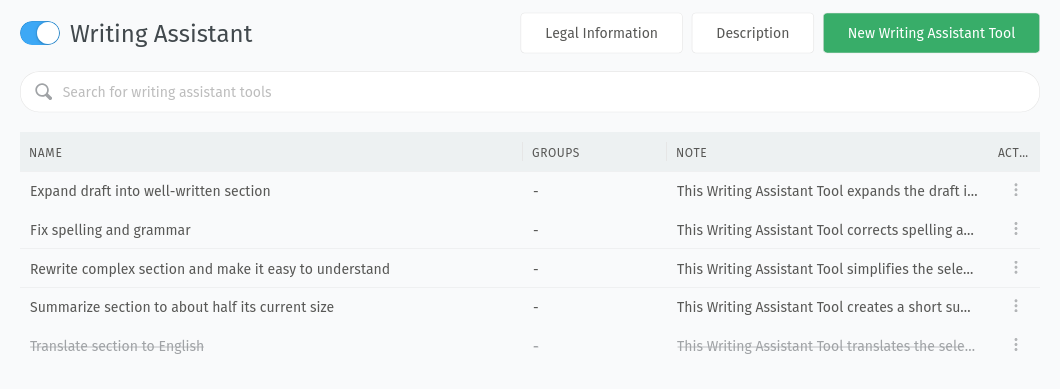
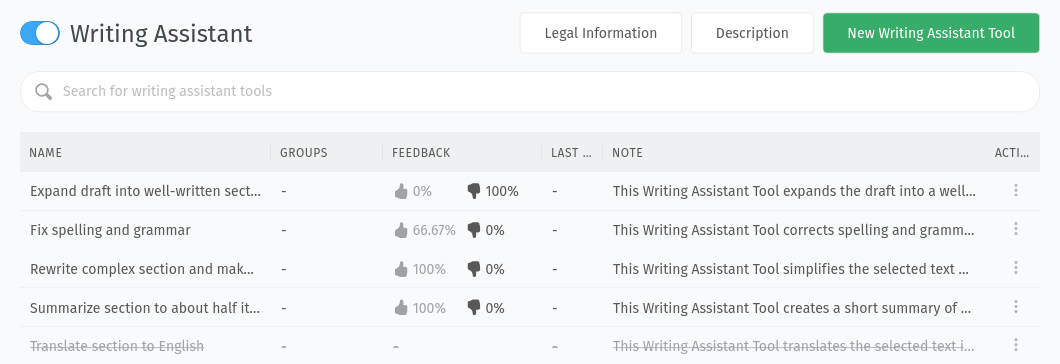
Fixes #1106 - Add feedback handling for writing assistant tools

diff --git a/ai/writing-assistant.rst b/ai/writing-assistant.rst
@@ -2,44 +2,101 @@ Writing Assistant
 =================
 
 Zammad's writing assistant tools allow agents to apply AI based changes to
-their text before saving or sending it. You can access the settings in Zammad's
+their text before saving or sending it. The permission
+``admin.ai_assistance_text_tools`` is required to access it in Zammad's
 admin section under *AI > Writing Assistant*. Make sure to configure an
 :doc:`AI provider <provider>` before activating the feature. Otherwise, a
 warning message will tell you to do so. Activate the feature by turning on the
 switch.
 
-.. figure:: /images/ai/writing-assistant.png
-   :alt: Screenshots shows writing assistant settings screen with available default tools
-
 Manage Tools
 ------------
 
-The main section of the screen holds a table where you can find all available
-writing tools. The table includes the name of the tool, an optional description
-in the **Note** column as well as an information about an optional limitation
-to specific groups.
+.. figure:: /images/ai/writing-assistant.png
+   :alt: Screenshots shows writing assistant settings screen with available default tools
 
-You can **Clone** or **Delete** existing tools via ︙ action menu. To edit a
-tool, simply click on its row. To add a new one, click the
-``New Writing Assistant Tool`` button in the header. Use cases for such
-individual tools could be:
+The main section of the screen shows a table where you can find all available
+writing tools. The table includes the name of the tool, the limitation to
+specific groups, a feedback summary, the last feedback reset time and a
+description.
 
-- Translation
+General Handling
+^^^^^^^^^^^^^^^^
+
+To create a new writing assistant tool, you can either start from scratch by
+using the **New Writing Assistant Tool** button in the top right corner or clone
+an existing one which is similar to your use case and adjust it. In both cases,
+a configuration dialog gets opened where you can adjust the settings of the
+writing assistant tool. You can find an explanation of each field in the
+:ref:`configuration` section below. Some use cases for individual writing
+assistant tools could be:
+
+- Translation to a specific language
 - Apply company and/or sector specific wording
 - Change the mood of the text
 - Reduce or eliminate subjective or uninformative parts
 - Combine different instructions in one tool
 
+The last column in the table includes the ︙ action menu where you can find the
+**Clone** and **Delete** action as well as download and reset the feedback
+(more on that below).
+
+To edit a tool, simply click on its row. This opens a configuration dialog like
+for creating a new ticket where you can configure it.
+
+.. tip::
+
+   Consider cloning an existing tool. So you can use the existing instructions
+   as a starting point and adjust them to your needs. In case it doesn't work as
+   expected, you can still have a look at the instructions of the default tools.
+
+Feedback Handling
+^^^^^^^^^^^^^^^^^
+
+Your agents can give feedback about the results of the writing assistant tools.
+This allows you to keep an eye on how well the tools are working and if
+adjustments are necessary. The agents can choose between a like (thumb up) and
+dislike (thumb down) reaction. For the dislike reaction, they can optionally add
+a comment to explain why they are not satisfied with the result.
+
+You can see the ratio of likes and dislikes relative to the total tool usage
+in the feedback column of the table. To get more insights, you can download the
+feedback data (including your agents' comments) by clicking
+**Download feedback report** in the ︙ action menu.
+
+To **Reset feedback**, use the corresponding entry in the ︙ action menu. This
+clears the feedback ratio in the table and the already collected feedback is no
+longer present in the feedback report. A reset can be useful if
+you made adjustments to the instructions and want to start collecting feedback
+for the adjusted version. After a reset, you can still access the old feedback
+by downloading the global feedback report in the
+:doc:`provider configuration <provider>`.
+
+.. tip::
+
+   To improve a writing assistant tool and compare the results before and
+   after your adjustments, you have two options:
+
+   1. Apply changes to the tool and reset the feedback. Be aware that the
+      feature specific feedback report no longer includes the feedback from the
+      time before the reset.
+      Either download the report **before** doing the reset or download the
+      global feedback report from the provider configuration.
+   2. Clone the tool, deactivate the old and adjust the cloned one.
+      This allows you to even compare the like and dislike ratio directly
+      in the UI.
+
+.. _configuration:
+
 Configuration
 -------------
 
-Adding or editing a tool opens a dialog where you can configure it. If you
-want to add a new tool, consider cloning an existing one to have a good starting
-point. Read on for an explanation of each field.
+Adding or editing a tool opens a configuration dialog. If you want to add a
+new tool, consider cloning an existing one to have a good starting point.
 
 Name
-   Add a name for the write assistant tool. This is what your agents see when
-   they access the write assistant tools.
+   Add a name for the writing assistant tool. This is what your agents see when
+   they open the writing assistant tool menu in an article they write.
 
 Custom instructions
    Provide detailed instructions for the AI. This is a very important part of
@@ -87,7 +144,7 @@ Note
   considered as context for the AI.
 
 Active
-   Set the write assistant tool to active or inactive.
+   Set the writing assistant tool to active or inactive.
 
 After creating or editing, you should test if the result is as expected. In
 case you are not happy, feel free to adjust the instructions until it fits your
